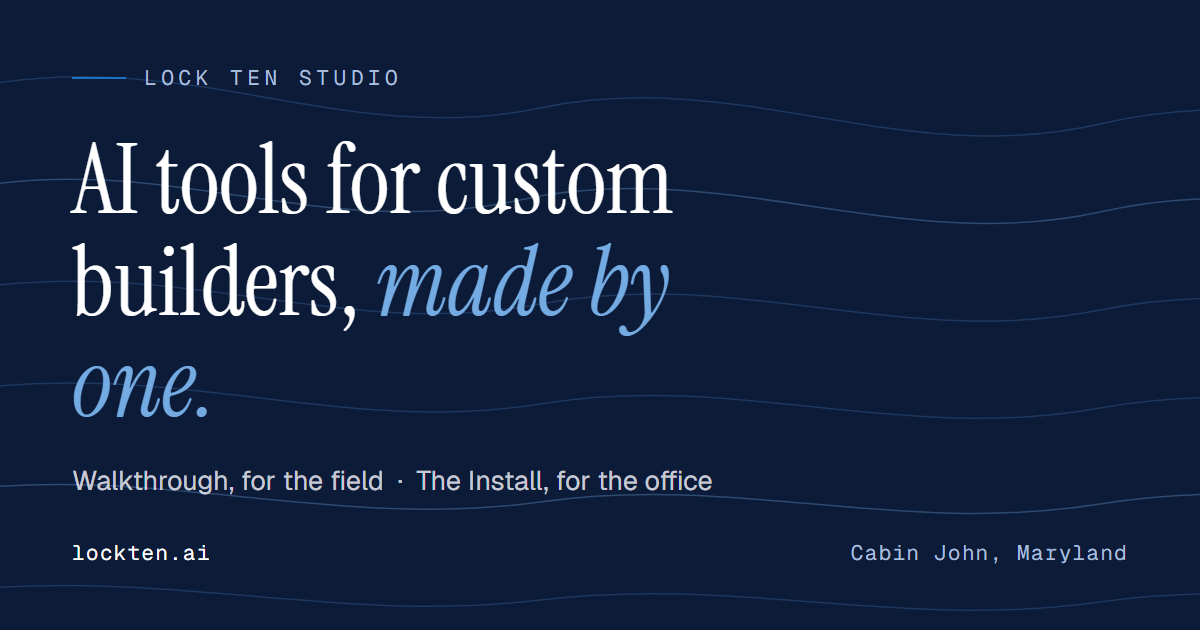
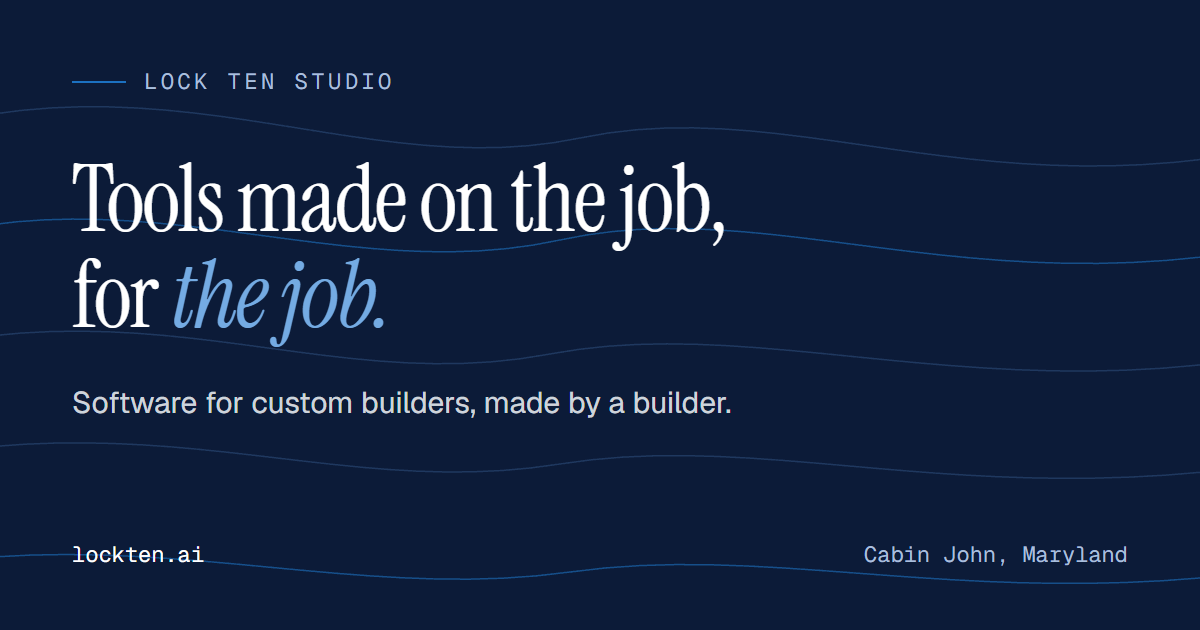
Homepage share image re-rendered with the new headline
The old card still said "AI tools for custom builders, made by one" and
advertised The Install.

diff --git a/CLAUDE.md b/CLAUDE.md
@@ -95,7 +95,7 @@ Field Notes is retired. The homepage signup (`#newsletter`), its Beehiiv loader 
 
 ## 2026-09-30: homepage redo and cleanup
 
-- **Homepage rebuilt** to the 2026-09-30 copy draft and brought up to the visual level of `materialmonitor.html` and homehandover.app, in the studio palette. The homepage now links Handover and Material Monitor (Early access band), which reverses the earlier "homepage stays silent" rule for those two. The one mention of AI is in the studio paragraph. `og-home.png` was not regenerated.
+- **Homepage rebuilt** to the 2026-09-30 copy draft and brought up to the visual level of `materialmonitor.html` and homehandover.app, in the studio palette. The homepage now links Handover and Material Monitor (Early access band), which reverses the earlier "homepage stays silent" rule for those two. The one mention of AI is in the studio paragraph. `assets/og/og-home.png` was re-rendered with the new headline (it used to advertise The Install); its source HTML is in that session's scratchpad as `og-home-src.html`.
 - **Field Notes retired** (see above). The **Cowork primer** footer link is gone everywhere; `primer.html` is `noindex`, out of the sitemap and `llms.txt`, still reachable.
 - **Architect**: `architect.html` and `assets/og/og-architect.png` deleted, out of the sitemap and `llms.txt`. `architect-help.html` stays reachable for the app and unlinked. The Architect screens and demo video under `assets/` are now unused.
 - **The Install**: `install.html` untouched (hidden, `noindex`); the primer's Install card and the `llms.txt` entry removed.
